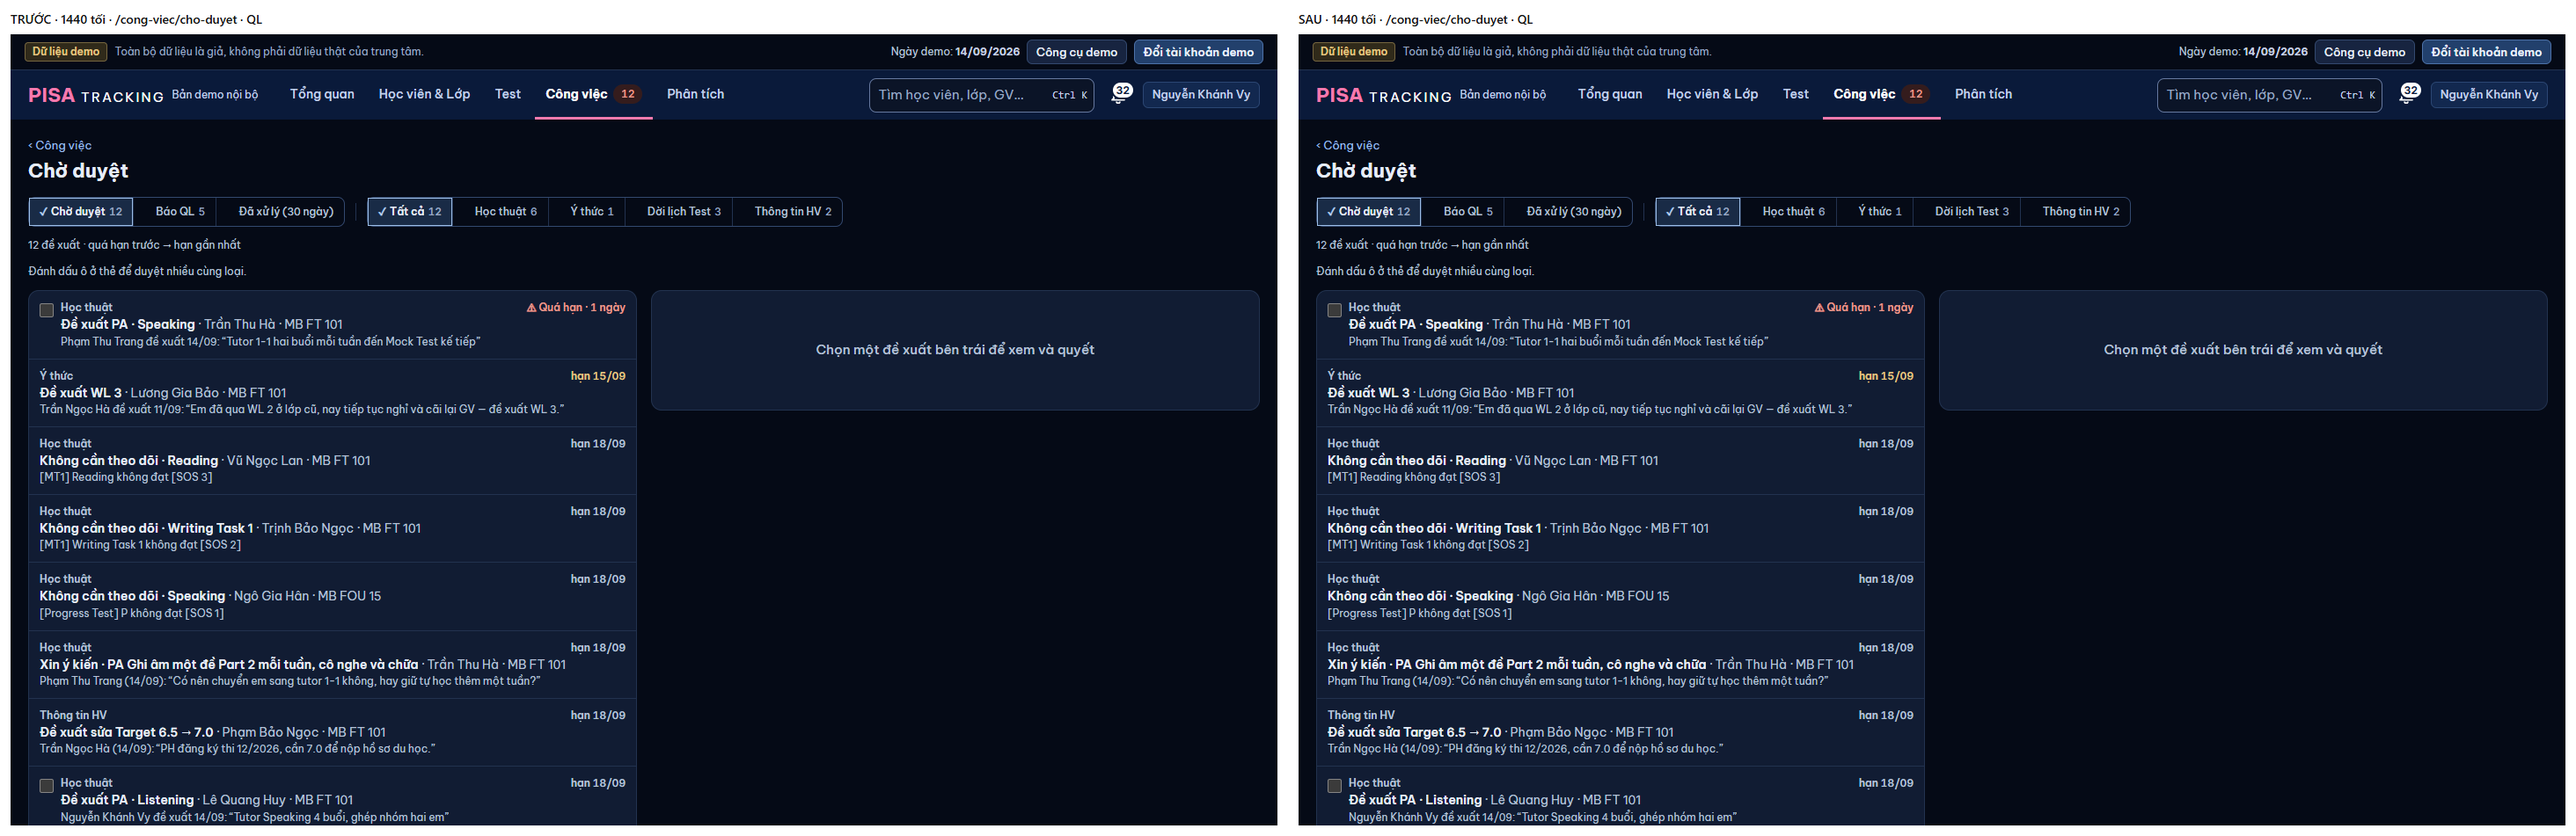
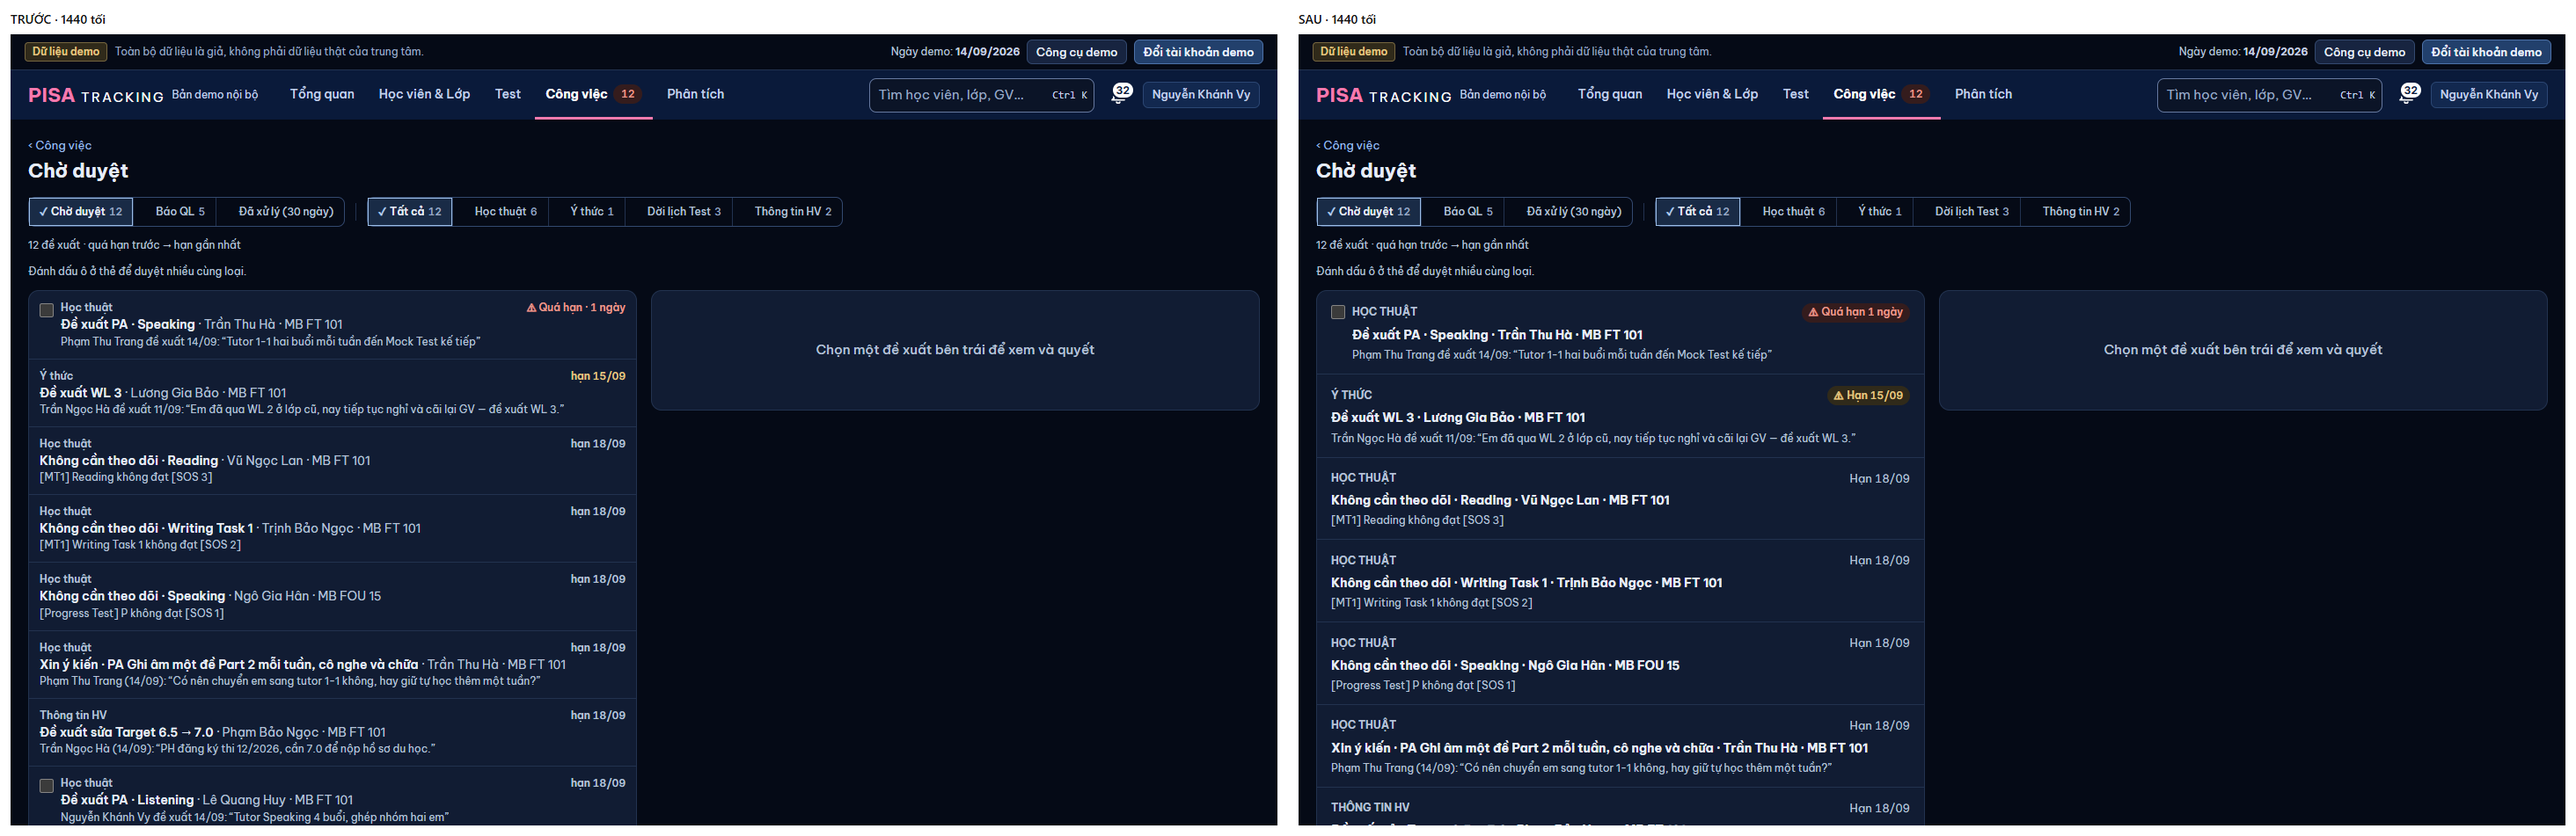
CV-CHO-DUYET-375: thẻ Chờ duyệt theo mockup V5 .the-duyet (nhãn loại 12/700 HOA, chip hạn ChipHan, tiêu đề đậm cả tên em · lớp, đệm 12/16); tên em xuống dòng, mã lớp không ngắt; ảnh cặp mockup | web + TRƯỚC | SAU

diff --git a/web/src/modules/duyet/HopChoDuyet.tsx b/web/src/modules/duyet/HopChoDuyet.tsx
@@ -4,6 +4,7 @@ import { ApiError, api, invalidate } from '../../lib/api.ts';
 import { useApi } from '../../lib/useApi.ts';
 import { useToast } from '../../ui/Toast.tsx';
 import { BoLocDoan, Card, Empty, ErrorState, NhanTrangThai, Skeleton } from '../../ui/ui.tsx';
+import { ChipHan } from '../../ui/Nhan.tsx';
 import { KhungPanel, KhungTaiCho, boChuRoi } from '../../ui/KhungPanel.tsx';
 import { useNgayNghiepVu } from '../../ui/ngayNghiepVu.ts';
 import { dich, t } from '@shared/i18n/index.ts';
@@ -11,7 +12,7 @@ import { BranchFilter, useChiNhanhMacDinh } from '../../ui/Filters.tsx';
 import { NganCase } from '../students/NganCase.tsx';
 import { TheYeuCau } from './TheYeuCau.tsx';
 import {
-  LOAI_YC_META, PHAN_LOAI_CAN_QUYET, PHAN_LOAI_LABEL, TRAN_HANG_LOAT, chiaLo, chonHet, chonMot, deadlineView, laPhanLoai, nhanTrangThaiYc, tomTatKetQuaHangLoat,
+  LOAI_YC_META, PHAN_LOAI_CAN_QUYET, PHAN_LOAI_LABEL, TRAN_HANG_LOAT, chiaLo, chonHet, chonMot, laPhanLoai, nhanTrangThaiYc, tomTatKetQuaHangLoat,
   type KhoaChip, type LoaiYeuCau, type TheYeuCauDto,
 } from '@shared/domain/index.ts';
 
@@ -318,13 +319,14 @@ export function HopChoDuyet({ gon = false, branchId: cnTrang }: {
 function DongYeuCau({ yc, dang, onMo, chon }: {
   yc: TheYeuCauDto; dang: boolean; onMo: () => void; chon: { checked: boolean; onChange: (v: boolean) => void } | null;
 }) {
-  const { homNay, ngan } = useNgayNghiepVu();
+  const { ngan } = useNgayNghiepVu();
   const cho = yc.trangThai === 'cho';
-  const hanV = cho && yc.hanDuyet ? deadlineView({ kind: 'duyet', due: yc.hanDuyet, today: homNay }) : null;
-  const han = !hanV ? null : hanV.tone === 'overdue' ? `⚠ ${t('Quá hạn · {daysOverdue} ngày', { daysOverdue: hanV.daysOverdue })}` : hanV.homNay ? t('Hạn hôm nay') : hanV.han;
   const tt = nhanTrangThaiYc(yc.trangThai, yc.tuDuyet);
+  const tieuDeDu = [dich(yc.tieuDe), yc.hocVien, yc.lop].filter(Boolean).join(' · ');
+  /* CV-CHO-DUYET-375 (mockup V5 `con-lai.html` §3 `.the-duyet`, luật hình ảnh 28/10): đệm 12 / 16, nhãn loại 12 / 700 HOA mờ, chip hạn `ChipHan` (mẫu V7 cong-viec-2)
+     (badge tiến độ `.bd-td`) bên phải, tiêu đề 14 / 700 cả tên em · lớp, dòng phụ 12 mờ; cách dòng 4 px. */
   return (
-    <li className={`flex items-start gap-2 border-b px-3 py-2.5 last:border-b-0 ${dang ? 'bg-[color:var(--accent-soft)] shadow-[inset_3px_0_0_var(--accent)]' : 'bam'}`}
+    <li className={`flex items-start gap-2 border-b px-4 py-3 last:border-b-0 ${dang ? 'bg-[color:var(--accent-soft)] shadow-[inset_3px_0_0_var(--accent)]' : 'bam'}`}
       style={{ borderColor: 'var(--line)' }}>
       {chon && (
         <label className="relative mt-1 inline-flex shrink-0 cursor-pointer max-sm:after:absolute max-sm:after:left-1/2 max-sm:after:top-1/2 max-sm:after:h-11 max-sm:after:w-11 max-sm:after:-translate-x-1/2 max-sm:after:-translate-y-1/2 max-sm:after:content-['']">
@@ -333,19 +335,19 @@ function DongYeuCau({ yc, dang, onMo, chon }: {
         </label>
       )}
       <button type="button" className="min-h-[44px] min-w-0 flex-1 cursor-pointer border-0 bg-transparent p-0 text-left sm:min-h-0" aria-current={dang || undefined} onClick={onMo}>
-        <span className="flex items-baseline justify-between gap-2">
-          <span className="truncate text-[12px] font-semibold text-slate-400">{dich(yc.nhanPhanLoai)}</span>
-          {cho ? han && <span className={`shrink-0 text-[12px] font-semibold tabular-nums ${hanV!.tone === 'overdue' ? 'text-late' : hanV!.ganHan ? 'text-soon' : 'text-slate-400'}`}>{han}</span>
+        <span className="flex min-h-[22px] items-center justify-between gap-2">
+          <span className="min-w-0 truncate text-[12px] font-bold uppercase text-slate-400">{dich(yc.nhanPhanLoai)}</span>
+          {cho ? <span className="shrink-0"><ChipHan loai="duyet" han={yc.hanDuyet} /></span>
             : <span className="flex shrink-0 items-center gap-1.5"><NhanTrangThai t={tt.t} />{yc.xuLyLuc && <span className="text-[12px] text-slate-400">{ngan(yc.xuLyLuc)}</span>}</span>}
         </span>
-        {/* CV-CHO-DUYET-375: điện thoại cho xuống dòng (như #647 / #649), từ `sm` giữ một dòng `truncate`; tên em, mã lớp không ngắt giữa và
-            "·" dính chữ trước (không đứng đầu dòng). */}
-        <b className="block break-words text-sm font-semibold text-slate-100 sm:truncate">
+        {/* Điện thoại: xuống dòng (như #647 / #649), không cắt; từ `sm` một dòng `truncate` + `title` đủ chữ. Mã lớp không ngắt giữa ("MB FT 101"),
+            "·" dính chữ trước (không đứng đầu dòng); tên em dài vẫn xuống dòng, không tràn khung. */}
+        <b className="mt-1 block break-words text-sm font-bold text-slate-100 sm:truncate" title={tieuDeDu}>
           {dich(yc.tieuDe)}{[yc.hocVien, yc.lop].filter(Boolean).map((x, i) => (
-            <span key={i} className="font-normal text-slate-300">{' · '}<span className="whitespace-nowrap">{x}</span></span>
+            <span key={i}>{'\u00a0· '}<span className={x === yc.lop ? 'whitespace-nowrap' : undefined}>{x}</span></span>
           ))}
         </b>
-        {yc.dong[0] && <span className="block break-words text-[12px] text-slate-400 sm:truncate">{dich(yc.dong[0])}</span>}
+        {yc.dong[0] && <span className="mt-1 block break-words text-[12px] text-slate-400 sm:truncate" title={dich(yc.dong[0])}>{dich(yc.dong[0])}</span>}
       </button>
     </li>
   );
